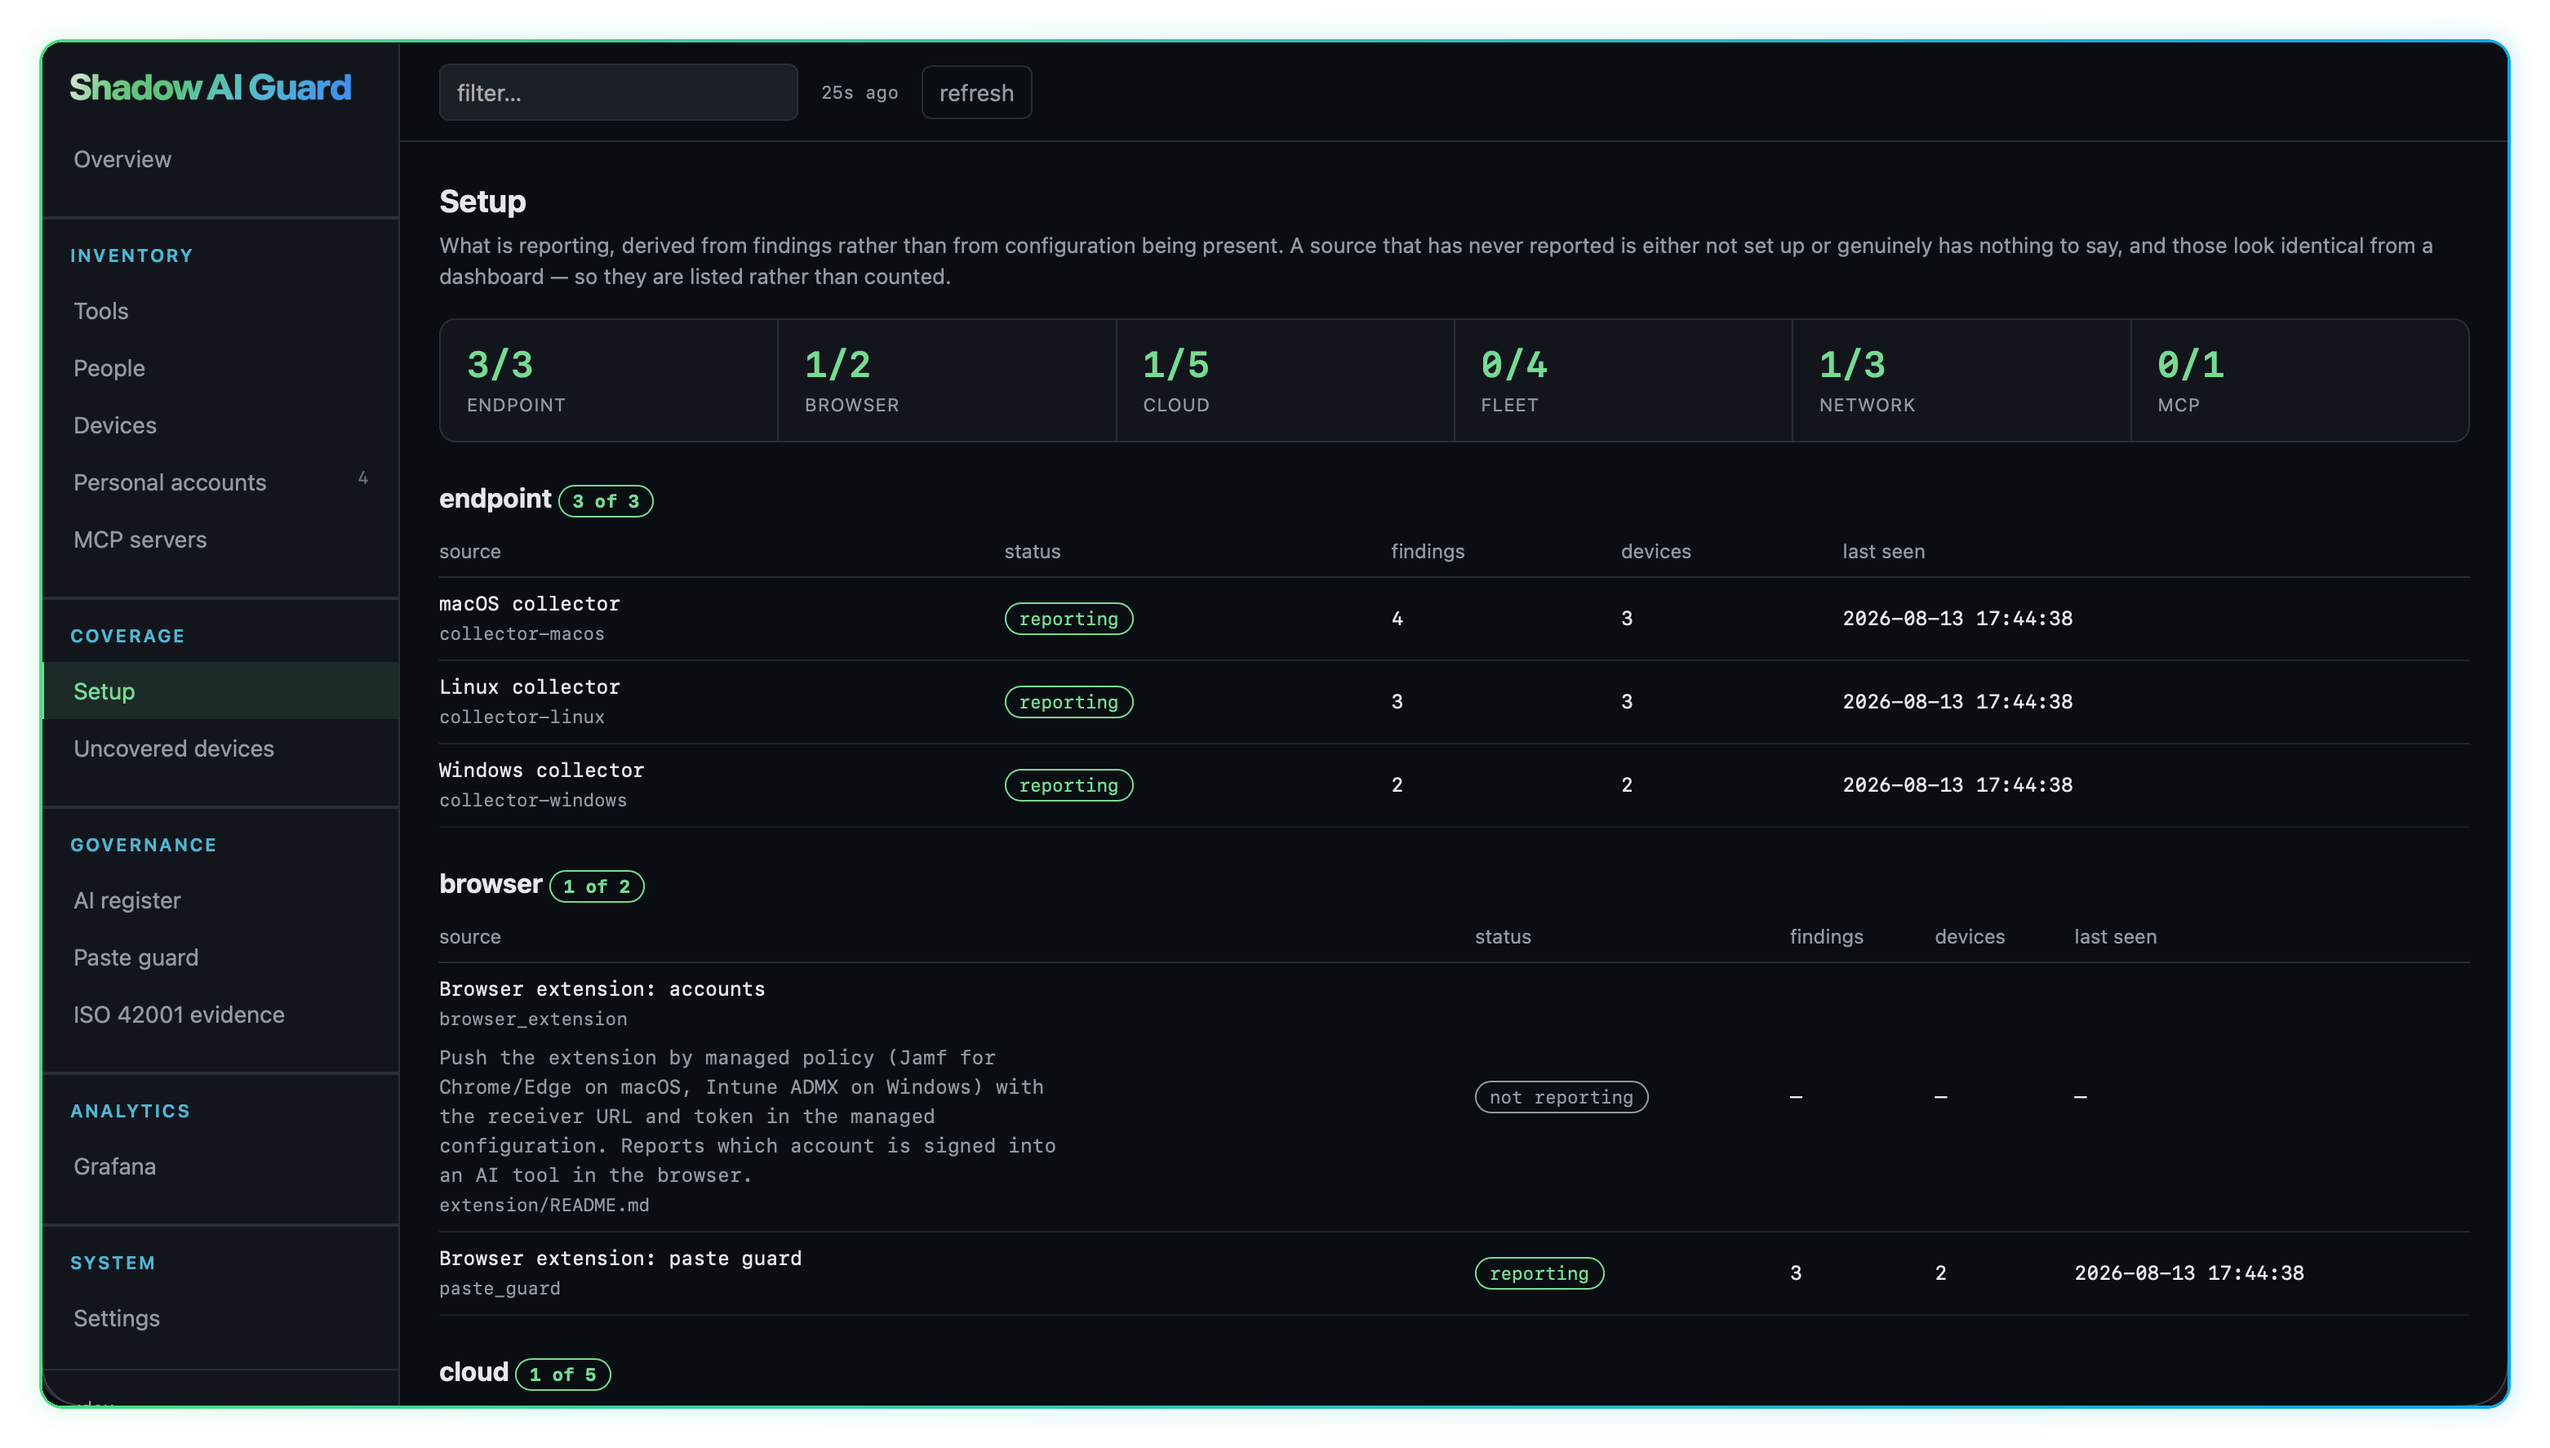
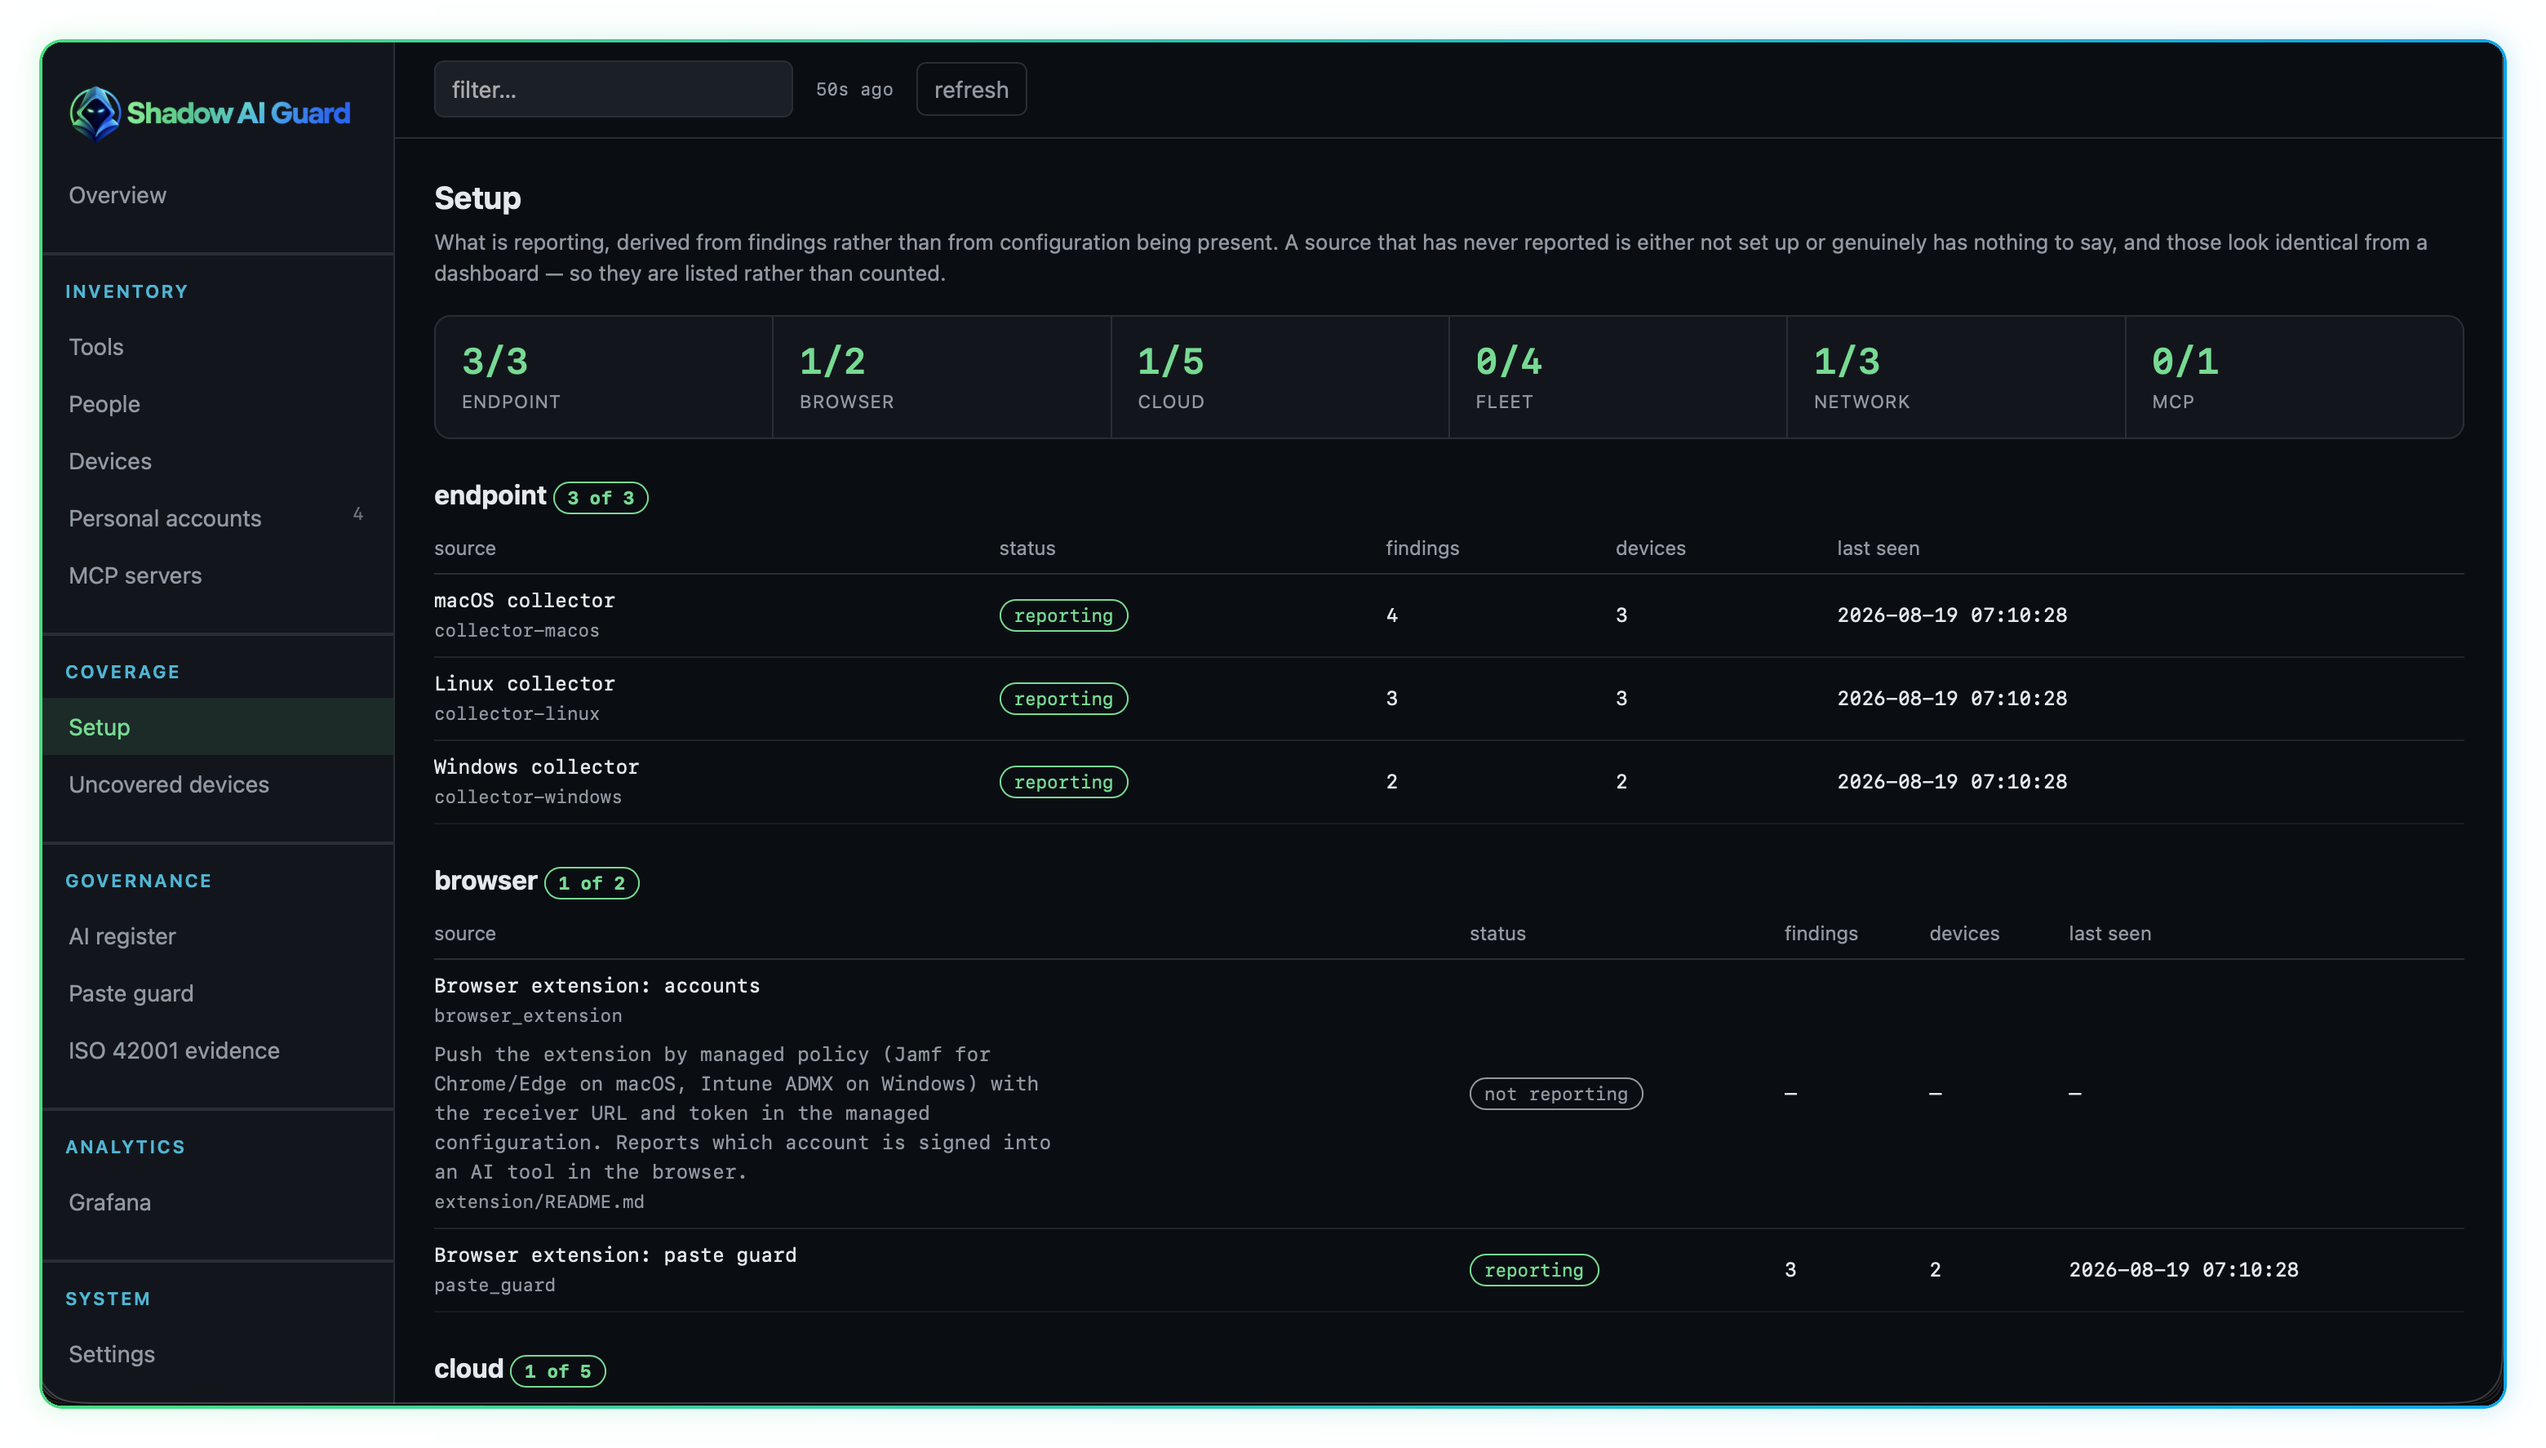
README.MD updated to reflect 0.9.4

diff --git a/README.md b/README.md
@@ -149,7 +149,7 @@ made-up devices.
 Use the portal to explore people, devices, tools, source health and the
 relationships between them.
 
-https://github.com/user-attachments/assets/3a35e2a6-2aeb-4d78-b3d1-796cc37e4695
+https://github.com/user-attachments/assets/a50191d2-c6c3-48d4-a383-59ab22d39afa
 
 ### Grafana
 
